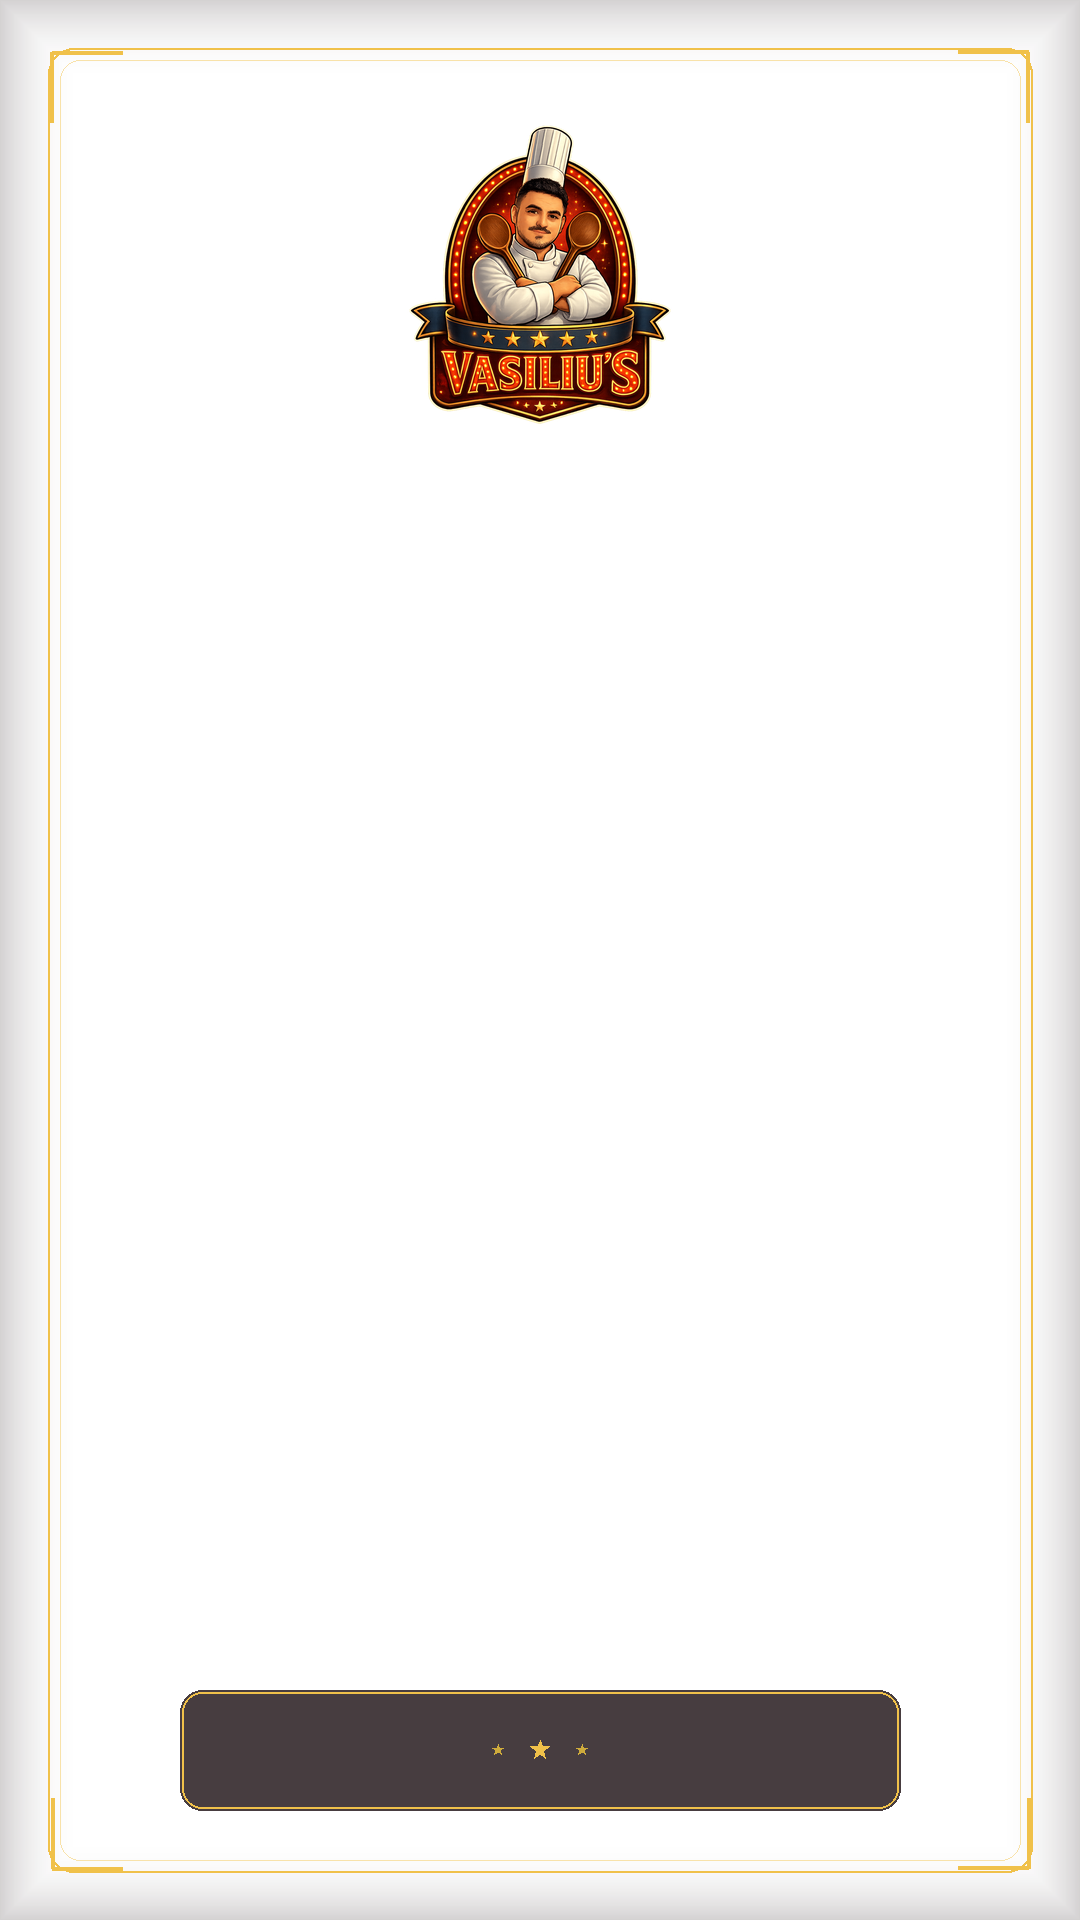
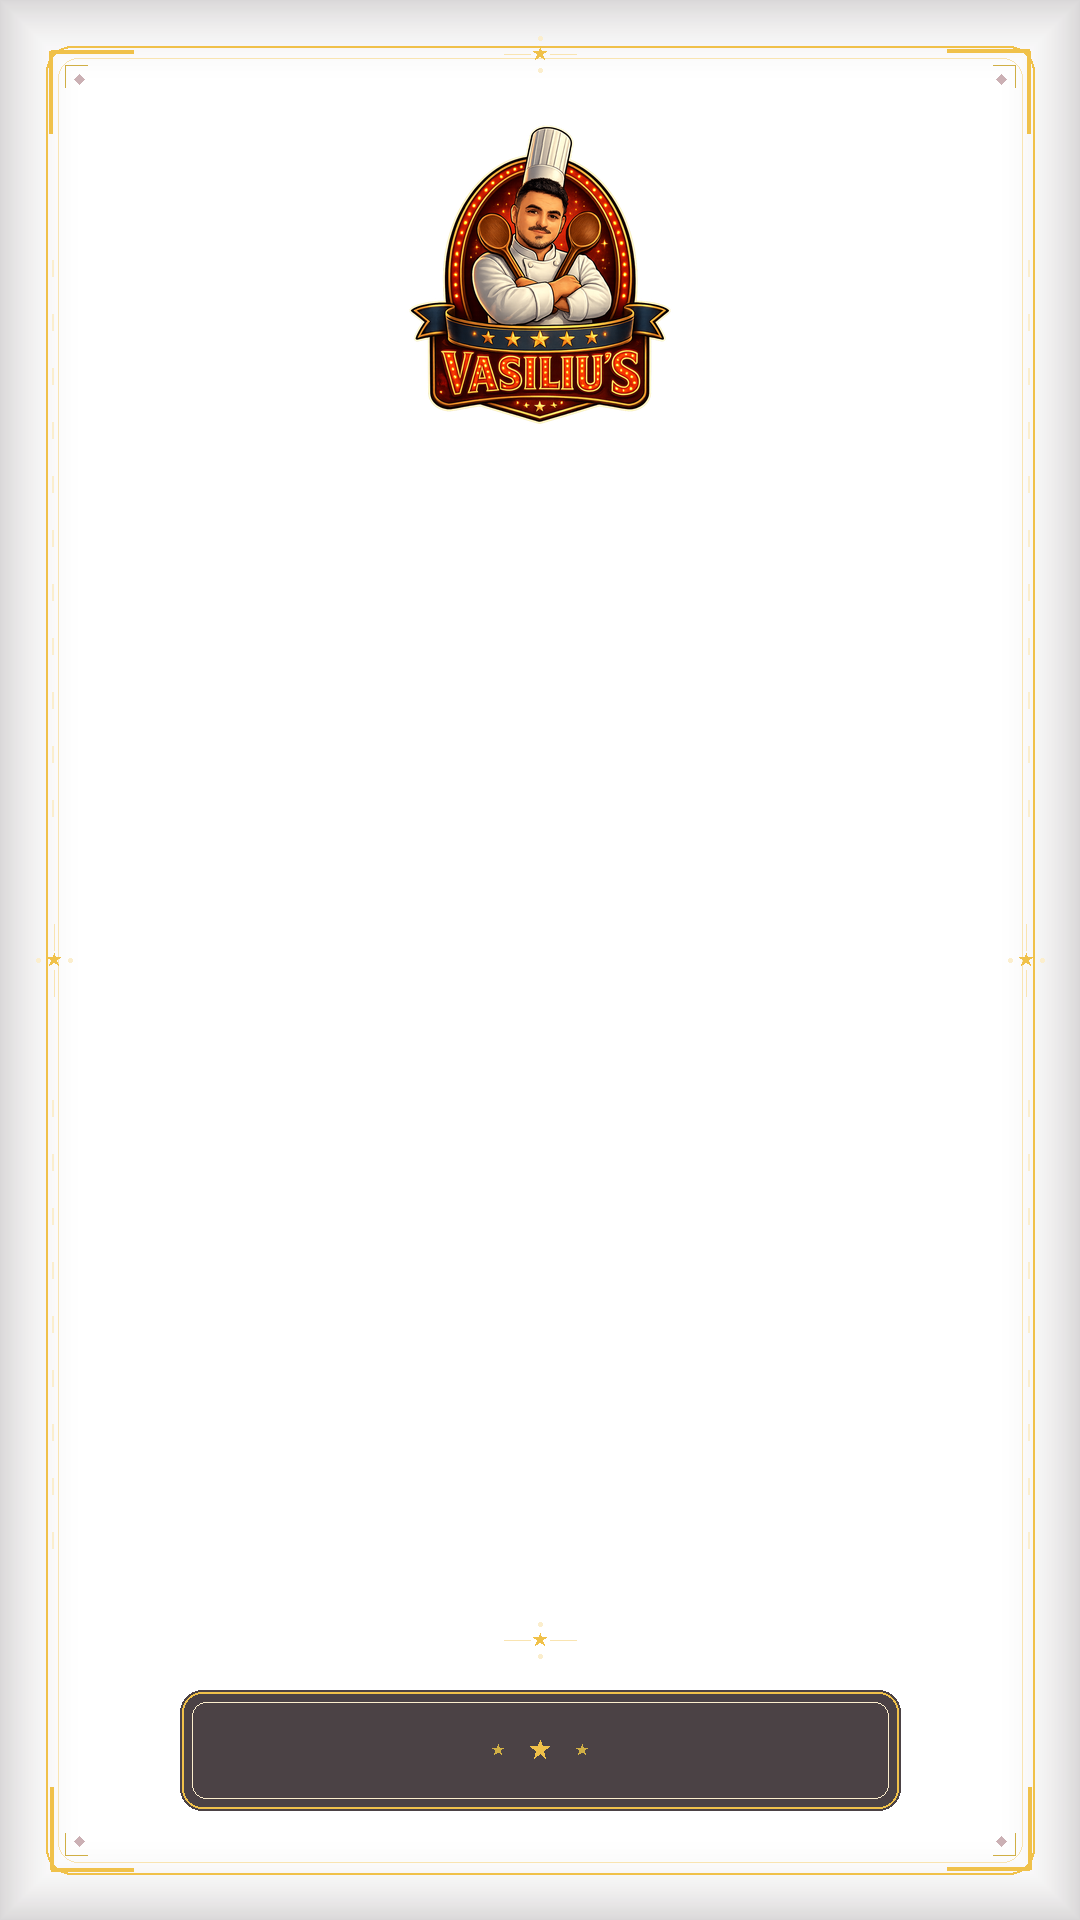
Add Cadou page, refine frame edges, straighten hero CTA.
Move the IG frame download to /cadou, show Despre Chef and
Cadou de la Chef above End the experience, add subtle premium
rim details on the frame, and keep Deschide meniul level.

diff --git a/src/components/MenuExperience.tsx b/src/components/MenuExperience.tsx
@@ -1,7 +1,6 @@
 "use client";
 
 import { useRef, useState } from "react";
-import Link from "next/link";
 import gsap from "gsap";
 import { useGSAP } from "@gsap/react";
 import { ScrollTrigger } from "gsap/ScrollTrigger";
@@ -9,7 +8,7 @@ import ChefLogo from "@/components/ChefLogo";
 import DrinksSection from "@/components/DrinksSection";
 import EndSlideshow from "@/components/EndSlideshow";
 import FaqSection from "@/components/FaqSection";
-import StoryFrameDownload from "@/components/StoryFrameDownload";
+import FinaleNav from "@/components/FinaleNav";
 import {
   BasilDoodle,
   OliveDoodle,
@@ -209,13 +208,13 @@ export default function MenuExperience() {
           {
             y: 36,
             opacity: 0,
-            rotation: () => gsap.utils.random(-4, 4),
             stagger: 0.09,
             duration: 0.75,
             ease: "back.out(1.6)",
           },
           0.35,
         )
+        .set(".js-hero-cta", { clearProps: "transform" })
         .from(
           ".js-hero-spark",
           {
@@ -364,7 +363,7 @@ export default function MenuExperience() {
                 block: "start",
               });
             }}
-            className="js-hero-item mt-9 inline-flex min-h-12 items-center gap-3 rounded-full border border-amber/40 bg-wine/80 px-6 font-label text-[0.68rem] uppercase tracking-[0.28em] text-amber transition-transform active:scale-[0.98]"
+            className="js-hero-item js-hero-cta mt-9 inline-flex min-h-12 items-center gap-3 rounded-full border border-amber/40 bg-wine/80 px-6 font-label text-[0.68rem] uppercase tracking-[0.28em] text-amber transition-transform active:scale-[0.98]"
           >
             {brand.cta}
             <span aria-hidden className="h-px w-8 bg-amber/70" />
@@ -483,21 +482,15 @@ export default function MenuExperience() {
             {brand.finaleSub}
           </p>
 
-          <div className="mt-10 flex w-full max-w-sm flex-col gap-3">
-            <Link
-              href="/chef"
-              className="inline-flex min-h-14 items-center justify-center rounded-full border-2 border-amber/50 bg-transparent px-8 font-display text-xl text-amber transition-transform active:scale-[0.98]"
-            >
-              {brand.chefButton}
-            </Link>
+          <div className="mt-10 flex w-full max-w-sm flex-col items-center gap-3">
+            <FinaleNav />
             <button
               type="button"
               onClick={() => setShowFinale(true)}
-              className="inline-flex min-h-14 items-center justify-center rounded-full bg-tomato px-8 font-display text-xl text-parchment shadow-[0_8px_0_#6B1F2A] transition-transform active:translate-y-1 active:shadow-[0_4px_0_#6B1F2A]"
+              className="inline-flex min-h-14 w-full items-center justify-center rounded-full bg-tomato px-8 font-display text-xl text-parchment shadow-[0_8px_0_#6B1F2A] transition-transform active:translate-y-1 active:shadow-[0_4px_0_#6B1F2A]"
             >
               End the experience
             </button>
-            <StoryFrameDownload />
           </div>
 
           <p className="mt-8 font-label text-[0.58rem] uppercase tracking-[0.22em] text-parchment/40">

diff --git a/src/app/cadou/page.tsx b/src/app/cadou/page.tsx
@@ -1,0 +1,54 @@
+import type { Metadata } from "next";
+import Link from "next/link";
+import StoryFrameDownload from "@/components/StoryFrameDownload";
+import { brand } from "@/data/menu";
+
+export const metadata: Metadata = {
+  title: "Cadou de la Chef — VASILIU’S",
+  description:
+    "Frame transparent pentru Instagram Stories — cadou de la Chef Vasiliu.",
+};
+
+export default function CadouPage() {
+  return (
+    <main className="min-h-screen bg-night text-parchment">
+      <div className="mx-auto flex min-h-screen max-w-lg flex-col px-5 pb-[max(2.5rem,env(safe-area-inset-bottom))] pt-[max(1rem,env(safe-area-inset-top))] sm:px-8">
+        <div className="flex items-center justify-between py-4">
+          <Link
+            href="/"
+            className="font-label text-[0.65rem] uppercase tracking-[0.26em] text-amber"
+          >
+            ← Inapoi la meniu
+          </Link>
+          <p className="font-label text-[0.6rem] uppercase tracking-[0.24em] text-parchment/40">
+            {brand.established}
+          </p>
+        </div>
+
+        <div className="flex flex-1 flex-col items-center justify-center py-8 text-center">
+          <p className="font-label text-[0.68rem] uppercase tracking-[0.34em] text-amber">
+            Cadou de la Chef
+          </p>
+          <h1 className="mt-3 font-display text-[clamp(2.2rem,10vw,3.2rem)] leading-none">
+            Frame Instagram
+          </h1>
+          <p className="mx-auto mt-4 max-w-sm text-[0.95rem] leading-relaxed text-parchment/65">
+            Un cadru transparent cu logo-ul VASILIU’S — salveaza-l si pune-l peste
+            poza ta in Stories.
+          </p>
+
+          <div className="mt-10 w-full">
+            <StoryFrameDownload />
+          </div>
+        </div>
+
+        <Link
+          href="/"
+          className="mt-4 flex min-h-14 items-center justify-center rounded-full border border-amber/40 bg-wine/80 font-display text-xl text-parchment"
+        >
+          Inapoi la masa
+        </Link>
+      </div>
+    </main>
+  );
+}

diff --git a/src/components/StoryFrameDownload.tsx b/src/components/StoryFrameDownload.tsx
@@ -53,15 +53,16 @@ export default function StoryFrameDownload() {
   }
 
   return (
-    <div className="w-full max-w-sm">
-      <div className="mx-auto mb-4 w-[7.5rem] overflow-hidden rounded-xl border border-amber/35 bg-[linear-gradient(160deg,#3a2030_0%,#1a0e12_55%,#2c2118_100%)] p-2 shadow-[0_10px_30px_rgba(0,0,0,0.35)]">
+    <div className="mx-auto w-full max-w-sm">
+      <div className="mx-auto mb-6 w-[11rem] overflow-hidden rounded-2xl border border-amber/35 bg-[linear-gradient(160deg,#3a2030_0%,#1a0e12_55%,#2c2118_100%)] p-3 shadow-[0_14px_36px_rgba(0,0,0,0.4)] sm:w-[13rem]">
         <div className="relative aspect-[9/16] w-full">
           <Image
             src={FRAME_SRC}
             alt="Preview frame Instagram VASILIU’S"
             fill
-            sizes="120px"
+            sizes="208px"
             className="object-contain"
+            priority
           />
         </div>
       </div>

diff --git a/src/components/FinaleNav.tsx b/src/components/FinaleNav.tsx
@@ -1,0 +1,21 @@
+import Link from "next/link";
+import { brand } from "@/data/menu";
+
+export default function FinaleNav() {
+  return (
+    <div className="grid w-full max-w-sm grid-cols-2 gap-3">
+      <Link
+        href="/chef"
+        className="inline-flex min-h-14 items-center justify-center rounded-full border-2 border-amber/50 bg-transparent px-3 text-center font-display text-lg leading-tight text-amber transition-transform active:scale-[0.98] sm:text-xl"
+      >
+        {brand.chefButton}
+      </Link>
+      <Link
+        href="/cadou"
+        className="inline-flex min-h-14 items-center justify-center rounded-full border-2 border-amber/50 bg-transparent px-3 text-center font-display text-lg leading-tight text-amber transition-transform active:scale-[0.98] sm:text-xl"
+      >
+        {brand.giftButton}
+      </Link>
+    </div>
+  );
+}

diff --git a/src/data/menu.ts b/src/data/menu.ts
@@ -16,6 +16,7 @@ export const brand = {
     "Acesta experienta a fost gandita, creata, dibuita, nascocita, implementata, rumenita si desavarsita de RAZVAN ANDREI VASILIU CNP: 1209338209, COD CAYENNE: 0000001, 1,76m , 25 ani, marime papuc: 43 , fan redbull, audi, aston martin, cadillac, ferrari, redbull, audi.",
   finaleSub: "Ma inclin.",
   chefButton: "Despre Chef",
+  giftButton: "Cadou de la Chef",
   chefPageTitle: "Chef Vasiliu",
   chefBio:
     "Experienta te nasti cu ea nu se capata. Dintre cele mai mari bucatarii alea lumii Est-Vestice a celor mai bune hoteluri de 7 stele cazatoare, castigator al bileleor de aur si co starul shoului ACEL URS, gateste cu maiestrie, grija si atentie la neatentie. Cateodata preparatul e despre preparat. si atat. in rest e doar vorba.",
